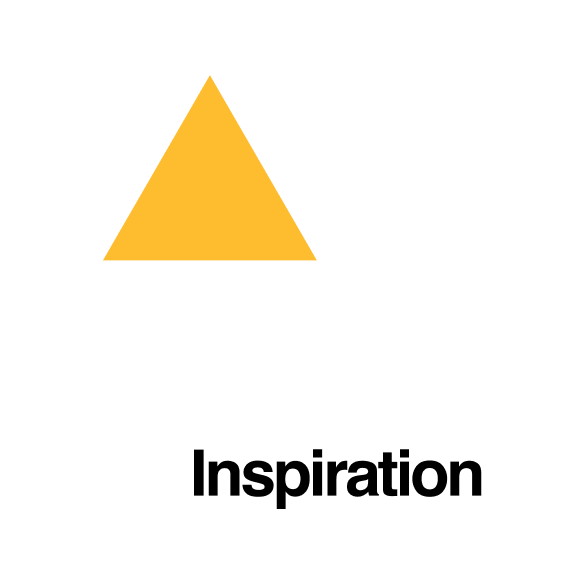
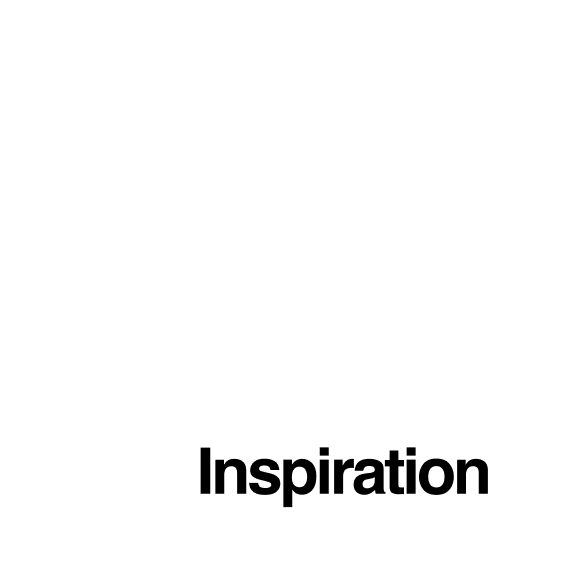
Add home link decorations and animations; introduce new SVG assets for visual markers

Changed region(s): [[0.1777, 0.1185, 0.5627, 0.4739], [0.3258, 0.77, 0.8589, 0.8885]]

diff --git a/index.tsx b/index.tsx
@@ -7,6 +7,8 @@ import {
   type Editor,
   type TLEventInfo,
   type TLImageAsset,
+  type TLImageShape,
+  type TLShapePartial,
   type TLShapeId,
   Tldraw,
 } from "tldraw";
@@ -112,6 +114,57 @@ const socialIcon = {
   margin: 56,
 };
 
+const homeLinkDecorations = [
+  {
+    groupId: "resume",
+    label: "Resume marker",
+    file: "Triangle.svg",
+    w: 96,
+    h: 83,
+  },
+  {
+    groupId: "portfolio",
+    label: "Portfolio marker",
+    file: "Star.svg",
+    w: 116,
+    h: 110,
+  },
+  {
+    groupId: "inspiration",
+    label: "Inspiration marker",
+    file: "Square.svg",
+    w: 80,
+    h: 80,
+  },
+  {
+    groupId: "photos",
+    label: "Photos marker",
+    file: "Circle.svg",
+    w: 94,
+    h: 94,
+  },
+] as const satisfies readonly {
+  groupId: PageGroupId;
+  label: string;
+  file: string;
+  w: number;
+  h: number;
+}[];
+
+const homeLinkDecoration = {
+  margin: 48,
+};
+
+const homeLinkAnimation = {
+  triangleCycleMs: 2400,
+  triangleBounceDistance: 30,
+  squareCycleMs: 4200,
+  squareDistance: 46,
+  starCycleMs: 5200,
+  circleCycleMs: 3800,
+  circleMinScale: 0.72,
+};
+
 function springEase(t: number) {
   if (t <= 0) return 0;
   if (t >= 1) return 1;
@@ -119,6 +172,73 @@ function springEase(t: number) {
   const easedT = t * t * (2.1 - 1.1 * t);
 
   return 1 - Math.exp(-10 * easedT) * Math.cos(4.5 * easedT);
+}
+
+function loopProgress(now: number, duration: number, offset = 0) {
+  return ((now + offset) % duration) / duration;
+}
+
+function easeOutCubic(t: number) {
+  return 1 - Math.pow(1 - t, 3);
+}
+
+function markerSpringEase(t: number) {
+  if (t <= 0) return 0;
+  if (t >= 1) return 1;
+
+  return 1 - Math.exp(-7 * t) * Math.cos(8 * t);
+}
+
+function springPingPong(progress: number) {
+  return progress < 0.5
+    ? markerSpringEase(progress * 2)
+    : 1 - markerSpringEase((progress - 0.5) * 2);
+}
+
+function glidingPingPong(progress: number) {
+  if (progress < 0.44) {
+    return markerSpringEase(progress / 0.44);
+  }
+
+  if (progress < 0.62) return 1;
+
+  return 1 - markerSpringEase((progress - 0.62) / 0.38);
+}
+
+function getTopLeftForCenteredRotation(bounds: Bounds, rotation: number) {
+  const halfWidth = bounds.w / 2;
+  const halfHeight = bounds.h / 2;
+  const centerX = bounds.x + halfWidth;
+  const centerY = bounds.y + halfHeight;
+  const rotatedHalfX = Math.cos(rotation) * halfWidth - Math.sin(rotation) * halfHeight;
+  const rotatedHalfY = Math.sin(rotation) * halfWidth + Math.cos(rotation) * halfHeight;
+
+  return {
+    x: centerX - rotatedHalfX,
+    y: centerY - rotatedHalfY,
+  };
+}
+
+function gravityBounce(progress: number) {
+  if (progress < 0.28) {
+    return easeOutCubic(progress / 0.28);
+  }
+
+  if (progress < 0.58) {
+    const dropProgress = (progress - 0.28) / 0.3;
+
+    return 1 - dropProgress * dropProgress;
+  }
+
+  if (progress < 0.8) {
+    const bounceProgress = (progress - 0.58) / 0.22;
+
+    return Math.sin(Math.PI * bounceProgress) * 0.34;
+  }
+
+  const settleProgress = (progress - 0.8) / 0.2;
+
+  return Math.sin(Math.PI * settleProgress) * 0.11;
 }
 
 function getPageAssetId(groupId: string, imageId: string) {
@@ -145,10 +265,21 @@ function getSocialShapeId(id: (typeof socialLinks)[number]["id"]) {
   return createShapeId(`home-${id}`);
 }
 
+function getHomeLinkDecorationAssetId(groupId: PageGroupId) {
+  return AssetRecordType.createId(`home-decoration-${groupId}`);
+}
+
+function getHomeLinkDecorationShapeId(groupId: PageGroupId) {
+  return createShapeId(`home-decoration-${groupId}`);
+}
+
 function getHomeShapeIds() {
   return [
     ...homeImages.map((image) => getHomeShapeId(image.id)),
     ...socialLinks.map((link) => getSocialShapeId(link.id)),
+    ...homeLinkDecorations.map((decoration) =>
+      getHomeLinkDecorationShapeId(decoration.groupId),
+    ),
   ];
 }
 
@@ -179,6 +310,12 @@ function isSeededShapeId(shapeId: TLShapeId) {
 }
 
 function getHomeTargetGroupId(shapeId: TLShapeId) {
+  const decoration = homeLinkDecorations.find(
+    (linkDecoration) => getHomeLinkDecorationShapeId(linkDecoration.groupId) === shapeId,
+  );
+
+  if (decoration) return decoration.groupId;
+
   const homeImage = homeImages.find((image) => getHomeShapeId(image.id) === shapeId);
 
   if (!homeImage) return;
@@ -243,6 +380,26 @@ function getHomeLayout(viewport: { w: number; h: number }) {
   };
 }
 
+function getHomeLinkDecorationShape(
+  decoration: (typeof homeLinkDecorations)[number],
+  layout: ReturnType<typeof getHomeLayout>,
+  origin = { x: 0, y: 0 },
+) {
+  return {
+    id: getHomeLinkDecorationShapeId(decoration.groupId),
+    type: "image" as const,
+    isLocked: true,
+    x: origin.x + layout.positions[decoration.groupId].x + homeLinkDecoration.margin,
+    y: origin.y + layout.positions[decoration.groupId].y + homeLinkDecoration.margin,
+    props: {
+      assetId: getHomeLinkDecorationAssetId(decoration.groupId),
+      w: decoration.w,
+      h: decoration.h,
+      altText: decoration.label,
+    },
+  };
+}
+
 function getHomeShapes(viewport: { w: number; h: number }, origin = { x: 0, y: 0 }) {
   const layout = getHomeLayout(viewport);
   const introPosition = layout.positions.intro;
@@ -261,6 +418,9 @@ function getHomeShapes(viewport: { w: number; h: number }, origin = { x: 0, y: 0
         altText: image.label,
       },
     })),
+    ...homeLinkDecorations.map((decoration) =>
+      getHomeLinkDecorationShape(decoration, layout, origin),
+    ),
     ...socialLinks.map((link, index) => ({
       id: getSocialShapeId(link.id),
       type: "image" as const,
@@ -281,6 +441,110 @@ function getHomeShapes(viewport: { w: number; h: number }, origin = { x: 0, y: 0
       },
     })),
   ];
+}
+
+function getAnimatedHomeLinkDecorationShape(
+  decoration: (typeof homeLinkDecorations)[number],
+  baseShape: ReturnType<typeof getHomeLinkDecorationShape>,
+  now: number,
+): TLShapePartial<TLImageShape> {
+  const baseBounds = {
+    x: baseShape.x,
+    y: baseShape.y,
+    w: baseShape.props.w,
+    h: baseShape.props.h,
+  };
+
+  if (decoration.groupId === "resume") {
+    const progress = gravityBounce(loopProgress(now, homeLinkAnimation.triangleCycleMs));
+
+    return {
+      id: baseShape.id,
+      type: "image",
+      x: baseShape.x,
+      y: baseShape.y - progress * homeLinkAnimation.triangleBounceDistance,
+      rotation: 0,
+      props: {
+        w: baseShape.props.w,
+        h: baseShape.props.h,
+        flipX: false,
+      },
+    };
+  }
+
+  if (decoration.groupId === "portfolio") {
+    const progress = springPingPong(loopProgress(now, homeLinkAnimation.starCycleMs, 800));
+    const rotation = progress * Math.PI;
+    const position = getTopLeftForCenteredRotation(baseBounds, rotation);
+
+    return {
+      id: baseShape.id,
+      type: "image",
+      x: position.x,
+      y: position.y,
+      rotation,
+      props: {
+        w: baseShape.props.w,
+        h: baseShape.props.h,
+      },
+    };
+  }
+
+  if (decoration.groupId === "inspiration") {
+    const progress = glidingPingPong(loopProgress(now, homeLinkAnimation.squareCycleMs, 400));
+
+    return {
+      id: baseShape.id,
+      type: "image",
+      x: baseShape.x + progress * homeLinkAnimation.squareDistance,
+      y: baseShape.y,
+      rotation: 0,
+      props: {
+        w: baseShape.props.w,
+        h: baseShape.props.h,
+      },
+    };
+  }
+
+  const progress = springPingPong(loopProgress(now, homeLinkAnimation.circleCycleMs, 1200));
+  const scale = 1 - progress * (1 - homeLinkAnimation.circleMinScale);
+  const width = baseShape.props.w * scale;
+  const height = baseShape.props.h * scale;
+
+  return {
+    id: baseShape.id,
+    type: "image",
+    x: baseShape.x + (baseShape.props.w - width) / 2,
+    y: baseShape.y + (baseShape.props.h - height) / 2,
+    rotation: 0,
+    props: {
+      w: width,
+      h: height,
+    },
+  };
+}
+
+function animateHomeLinkDecorations(editor: Editor) {
+  const viewport = editor.getViewportScreenBounds();
+  const canvasLayout = getCanvasLayout(viewport);
+  const homeLayout = getHomeLayout(viewport);
+  const now = window.performance.now();
+  const updates = homeLinkDecorations.flatMap((decoration) => {
+    const baseShape = getHomeLinkDecorationShape(decoration, homeLayout, canvasLayout.homeOrigin);
+
+    if (!editor.getShape(baseShape.id)) return [];
+
+    return [getAnimatedHomeLinkDecorationShape(decoration, baseShape, now)];
+  });
+
+  if (updates.length === 0) return;
+
+  editor.run(
+    () => {
+      editor.updateShapes<TLImageShape>(updates);
+    },
+    { history: "ignore", ignoreShapeLock: true },
+  );
 }
 
 function getGridSize(isLandscape: boolean) {
@@ -454,9 +718,13 @@ function createImageAssets(editor: Editor, assets: TLImageAsset[]) {
   editor.createAssets(assets.filter((asset) => !editor.getAsset(asset.id)));
 }
 
-function bringSocialShapesToFront(editor: Editor) {
-  const shapeIds = socialLinks
-    .map((link) => getSocialShapeId(link.id))
+function bringHomeOverlayShapesToFront(editor: Editor) {
+  const shapeIds = [
+    ...homeLinkDecorations.map((decoration) =>
+      getHomeLinkDecorationShapeId(decoration.groupId),
+    ),
+    ...socialLinks.map((link) => getSocialShapeId(link.id)),
+  ]
     .filter((shapeId) => editor.getShape(shapeId));
 
   if (shapeIds.length === 0) return;
@@ -499,7 +767,7 @@ function createOrUpdateShapes(editor: Editor, shapes: ReturnType<typeof getCanva
     () => {
       editor.createShapes(shapes.filter((shape) => !editor.getShape(shape.id)));
       editor.updateShapes(shapes.filter((shape) => editor.getShape(shape.id)));
-      bringSocialShapesToFront(editor);
+      bringHomeOverlayShapesToFront(editor);
     },
     { ignoreShapeLock: true },
   );
@@ -546,6 +814,20 @@ function createHomeAssets(): TLImageAsset[] {
         isAnimated: false,
         mimeType: null,
         src: `${import.meta.env.BASE_URL}images/home/${image.file}`,
+      },
+    })),
+    ...homeLinkDecorations.map((decoration) => ({
+      id: getHomeLinkDecorationAssetId(decoration.groupId),
+      type: "image" as const,
+      typeName: "asset" as const,
+      meta: {},
+      props: {
+        w: decoration.w,
+        h: decoration.h,
+        name: decoration.file,
+        isAnimated: false,
+        mimeType: null,
+        src: `${import.meta.env.BASE_URL}images/${decoration.file}`,
       },
     })),
     ...socialLinks.map((link) => ({
@@ -919,7 +1201,10 @@ function App() {
         );
         updateCompassRotation();
       };
-      const handleFrame = () => updateCompassRotation();
+      const handleFrame = () => {
+        updateCompassRotation();
+        animateHomeLinkDecorations(editor);
+      };
       let pointerDown:
         | {
           point: Vec;
